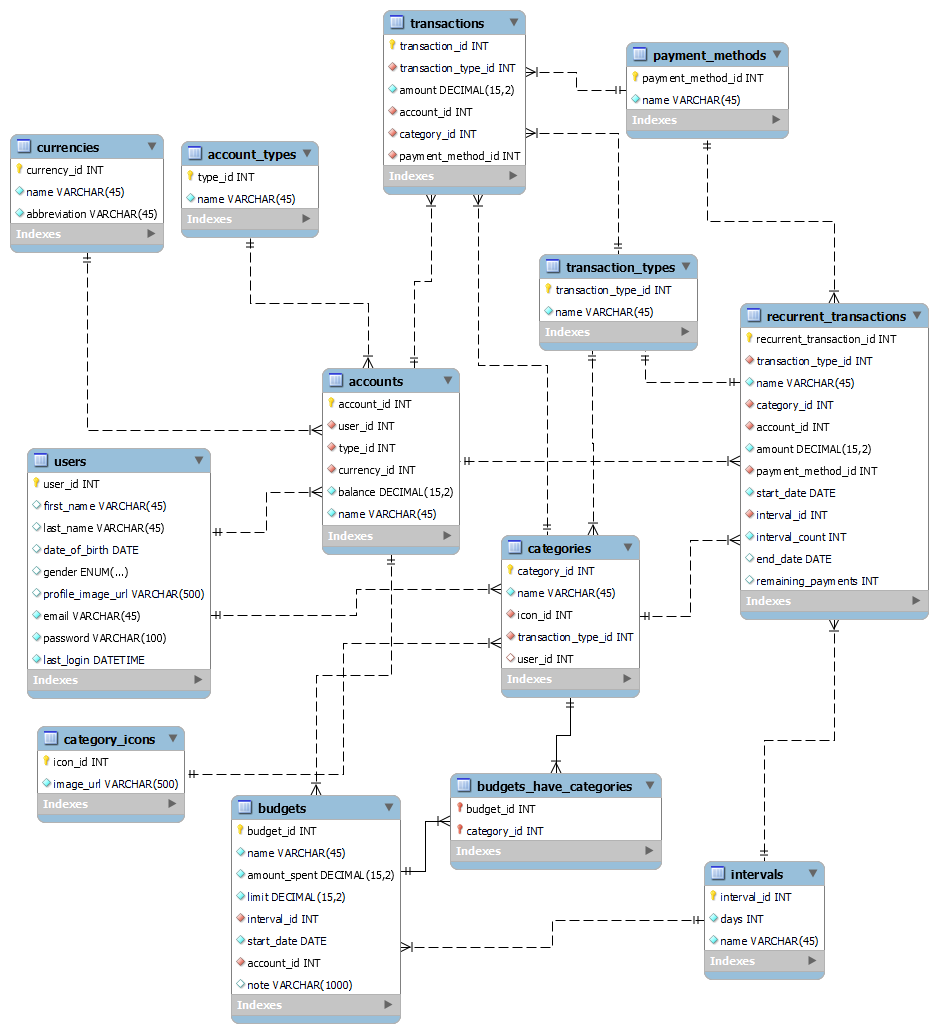
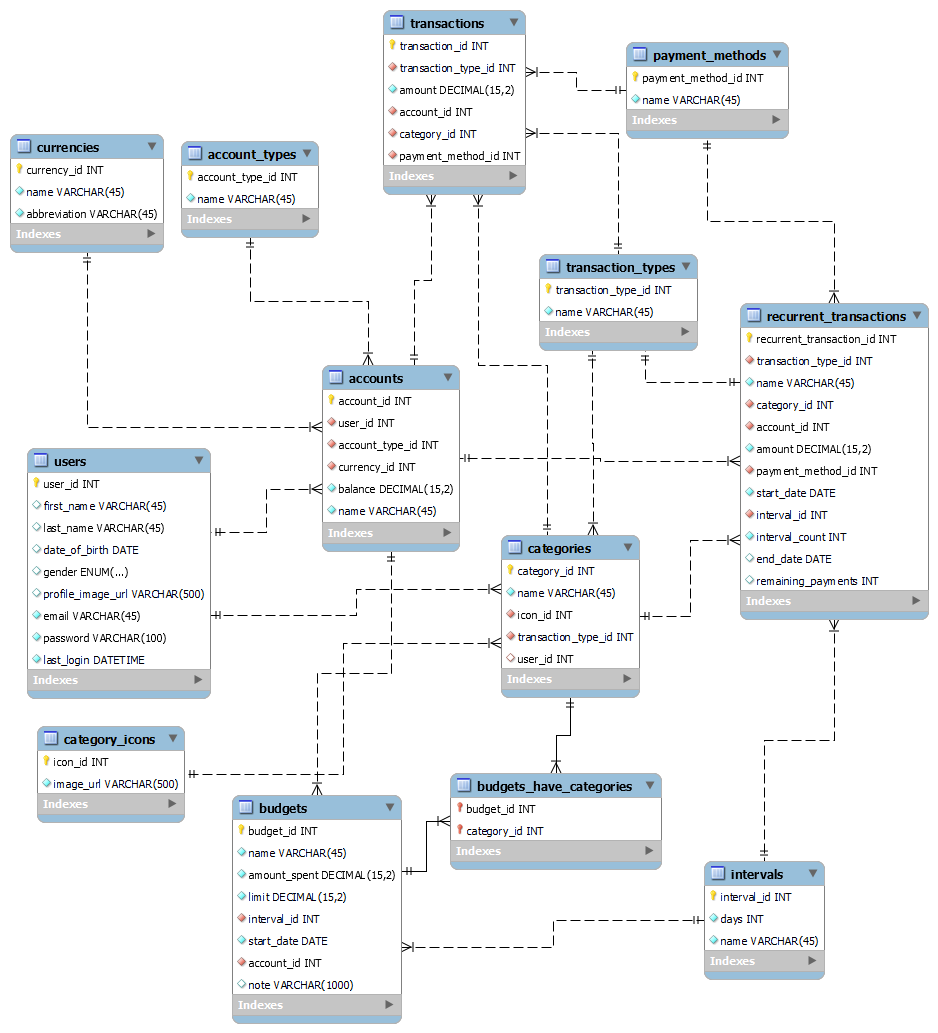
fixed account_type_id in ER Diagram

Changed region(s): [[0.3092, 0.3408, 0.4947, 0.5576], [0.2473, 0.7744, 0.4328, 0.9913], [0.2164, 0.1549, 0.2783, 0.1859]]

diff --git a/FinanceTracker/src/main/java/com/example/financetracker/model/pojo/Account.java b/FinanceTracker/src/main/java/com/example/financetracker/model/pojo/Account.java
@@ -27,7 +27,7 @@ public class Account {
     private Currency currency;
 
     @ManyToOne
-    @JoinColumn(name = "type_id")
+    @JoinColumn(name = "account_type_id")
     private AccountType accountType;
 
     @Column(name = "balance")

diff --git a/FinanceTracker/src/main/java/com/example/financetracker/model/pojo/AccountType.java b/FinanceTracker/src/main/java/com/example/financetracker/model/pojo/AccountType.java
@@ -15,7 +15,7 @@ public class AccountType {
 
     @Id
     @GeneratedValue(strategy = GenerationType.IDENTITY)
-    private int typeId;
+    private int accountTypeId;
 
     @Column
     private String name;
